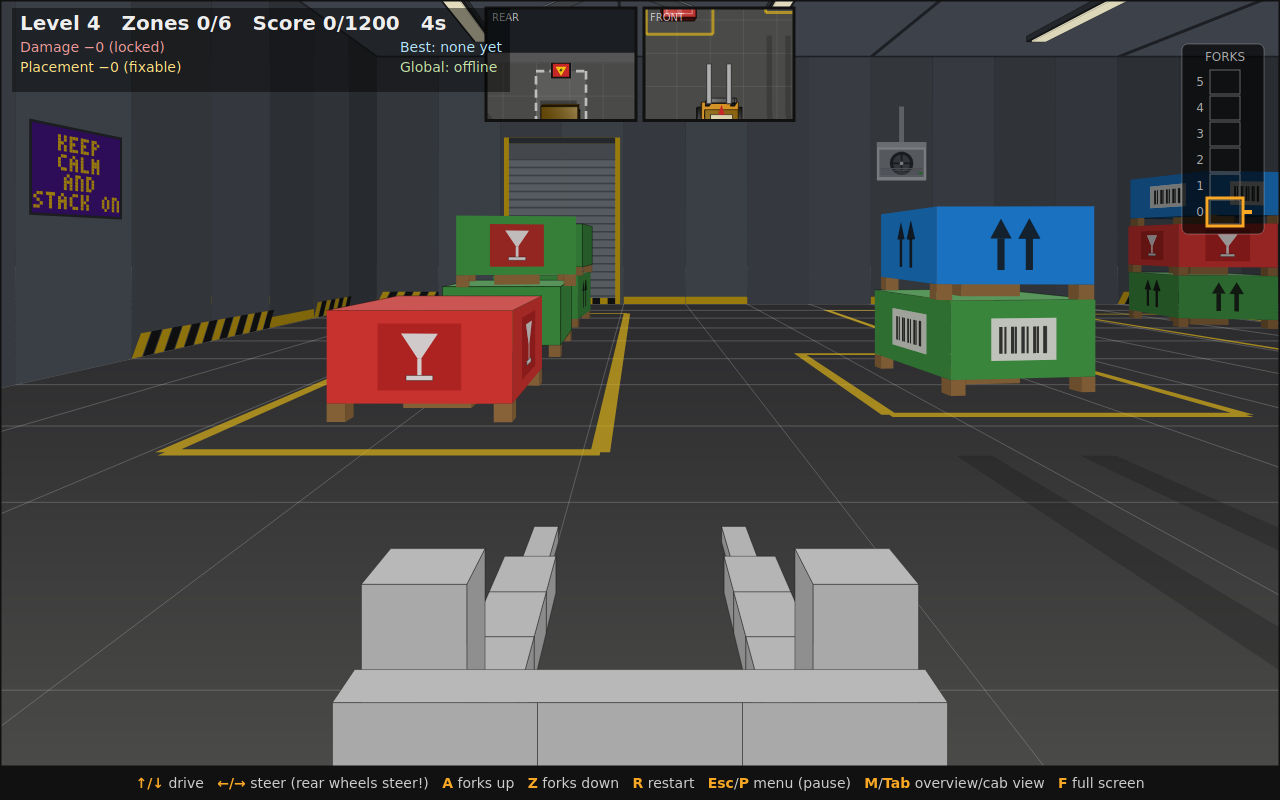
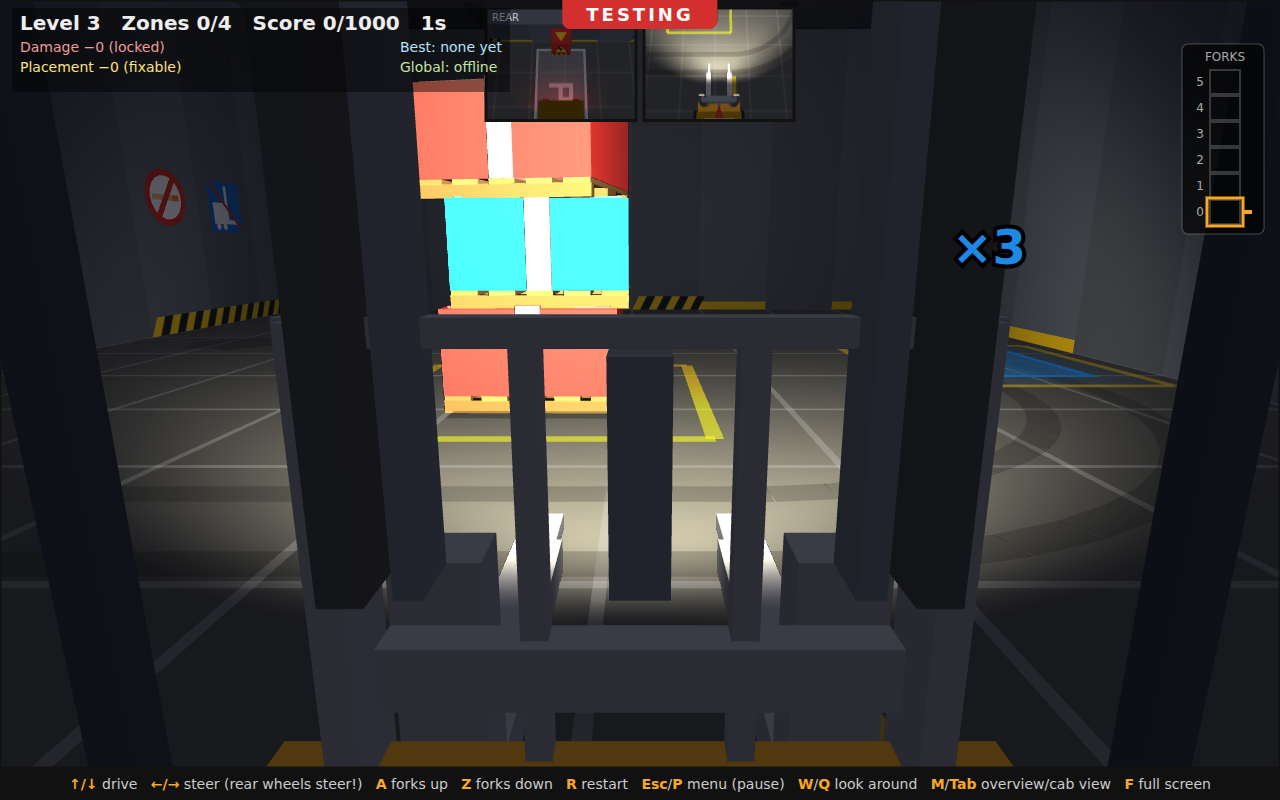
Presentation: update to 8 Nov, new dark-mode WebGL screenshots, Chromium screenshot guide

diff --git a/docs/presentation.html b/docs/presentation.html
@@ -26,12 +26,12 @@
   .row figure { flex: 1.2; margin: 0; }
   figure img { width: 100%; border-radius: 8px; border: 1px solid #2a313b; box-shadow: 0 6px 24px #0008; display: block; }
   figcaption { font-size: 1.1vw; color: #9aa4b2; margin-top: 1vh; }
-  .chart { display: flex; gap: 1.2vw; align-items: flex-end; justify-content: center; height: 52vh; margin-top: 1vh; }
-  .col { display: flex; flex-direction: column; align-items: center; justify-content: flex-end; width: 6.5vw; }
-  .col .n { font-size: 2.2vw; font-weight: bold; color: #ffc933; margin-bottom: .6vh; }
+  .chart { display: flex; gap: .5vw; align-items: flex-end; justify-content: center; height: 52vh; margin-top: 1vh; }
+  .col { display: flex; flex-direction: column; align-items: center; justify-content: flex-end; width: 4.2vw; }
+  .col .n { font-size: 1.6vw; font-weight: bold; color: #ffc933; margin-bottom: .6vh; }
   .col .stack { display: flex; flex-direction: column-reverse; width: 100%; border-bottom: 3px solid #6b7684; padding-bottom: 2px; }
   .col .stack i { display: block; width: 100%; margin-top: 1px; border-radius: 2px; box-sizing: border-box; border: 1px solid #0006; box-shadow: inset 0 -2px #0004, inset 0 2px #fff3; }
-  .col .d { font-size: 1.2vw; color: #9aa4b2; margin-top: .8vh; text-align: center; line-height: 1.3; }
+  .col .d { font-size: .9vw; color: #9aa4b2; margin-top: .8vh; text-align: center; line-height: 1.3; }
   .legend { display: flex; gap: 1.4vw; justify-content: center; font-size: 1.1vw; white-space: nowrap; color: #9aa4b2; margin-top: 1.5vh; }
   .legend i { display: inline-block; width: 1.2vw; height: 1.2vw; border-radius: 2px; vertical-align: middle; margin-right: .5vw; }
   .posters { display: grid; grid-template-columns: repeat(5, 1fr); gap: 2.2vw 2vw; align-items: center; justify-items: center; }
@@ -44,7 +44,7 @@
 <section class="slide">
   <h1>Pallet Polka</h1>
   <div class="sub">The development timeline of a top-down, keyboard-only forklift puzzle</div>
-  <div class="sub" style="margin-top:3vh">21 October – 2 November 2026 · 331 commits · vanilla JS + Canvas 2D · no build, no dependencies</div>
+  <div class="sub" style="margin-top:3vh">21 October – 8 November 2026 · 463 commits · vanilla JS + Canvas 2D · no build, no dependencies</div>
   <div class="sub" style="margin-top:6vh;font-size:1.4vw">← / → or Space to navigate</div>
 </section>
 
@@ -55,13 +55,13 @@
     <li>Rear-wheel-steering bicycle model: the tail swings out</li>
     <li>Deterministic seeded level generator (<code>mulberry32</code>)</li>
     <li>DOM-free game logic, so the tests run in plain Node</li>
-    <li>Static files on GitHub Pages (and an installable PWA); Firefox is the primary target</li>
+    <li>Static files on GitHub Pages (and an installable PWA); Firefox is the primary target, WebGL2 for the 3D views</li>
   </ul>
   <div class="stats">
-    <div class="stat"><b>~4.5k</b><span>lines of JS</span></div>
-    <div class="stat"><b>331</b><span>commits</span></div>
+    <div class="stat"><b>~6.3k</b><span>lines of JS</span></div>
+    <div class="stat"><b>463</b><span>commits</span></div>
     <div class="stat"><b>0</b><span>dependencies</span></div>
-    <div class="stat"><b>13</b><span>days (11 with commits)</span></div>
+    <div class="stat"><b>19</b><span>days (15 with commits)</span></div>
   </div>
 </section>
 
@@ -269,18 +269,88 @@
 <section class="slide">
   <div class="date">Day 15 · 4 Nov</div>
   <h2>Disco in the dark</h2>
-  <ul>
+  <div class="row"><ul>
     <li>Dark mode gets glitter balls and coloured light pools sweeping the floor, in the cabin view and (as lights only) the overview</li>
     <li>Balls are scattered randomly per level; the forklift carries its own light</li>
     <li>Menu options: disco lights on/off, and colour mode Follow OS / Light / Dark</li>
+  </ul>
+  <figure><img src="shots/14-cabin-disco.png" alt=""><figcaption>Disco lights in the 3D cabin view (HEAD, dark mode)</figcaption></figure></div>
+</section>
+
+<section class="slide">
+  <div class="date">Day 15 · 4 Nov</div>
+  <h2>Renamed: Pallet Polka</h2>
+  <ul>
+    <li>The game became <b>Pallet Polka</b>: new title on the splash and wall posters, polka MIDI as default music</li>
+    <li>Cover image (SVG source + PNG), a short description text and a new production address, palletpolka.gnutt.se</li>
+    <li>Level start and end screens show the local and global top 10</li>
+  </ul>
+</section>
+
+<section class="slide">
+  <div class="date">Day 18 · 7 Nov</div>
+  <h2>True 3D with WebGL2</h2>
+  <div class="row"><ul style="font-size:1.5vw">
+    <li>The overview, cabin view and look windows are now real 3D scenes (depth buffer, lighting, fog), no libraries; the 2D renderers remain as a fallback (<code>?gl=0</code>)</li>
+    <li>Dark mode headlights, brake/reverse lights, an idle tail glow, ceiling lights and disco spots as real point lights</li>
+    <li>Richer forklift model: carriage plates, lift chains, mast head and cylinder rod</li>
+    <li>Wall decals and zone labels painted into the 3D overview</li>
+    <li>Damaged boxes crumple: dented lids, corners and sides, scaled by damage</li>
+  </ul>
+  <figure><img src="shots/06-overview-latest.png" alt=""><figcaption>The 3D overview in dark mode (HEAD)</figcaption></figure></div>
+</section>
+
+<section class="slide">
+  <div class="date">Day 18 · 7 Nov</div>
+  <h2>A new menu, splash &amp; touch schemes</h2>
+  <div class="row"><ul>
+    <li>Pause menu redesigned: one option per row, submenus for sound, visuals, levels and state, primary actions on top</li>
+    <li>Short landscape phones get a two-column menu</li>
+    <li>Splash: Disco start button with a dancing man, a story blurb, random music; music and disco are off by default</li>
+    <li>Touch control schemes: classic buttons, rotated buttons, or a virtual joystick with fork buttons</li>
+  </ul>
+  <figure><img src="shots/13-menu-visuals.png" alt=""><figcaption>The Visuals &amp; controls submenu (HEAD, dark mode)</figcaption></figure></div>
+</section>
+
+<section class="slide">
+  <div class="date">Day 18 · 7 Nov</div>
+  <h2>Splash and joystick on the phone</h2>
+  <div style="display:flex;gap:2vw;align-items:center;justify-content:center">
+    <figure style="margin:0;flex:1.3"><img src="shots/17-splash-latest.png" alt=""><figcaption style="text-align:center">Splash screen, dark mode</figcaption></figure>
+    <figure style="margin:0;flex:1.6"><img src="shots/15-touch-joystick-landscape.png" alt=""><figcaption style="text-align:center">Joystick scheme, landscape</figcaption></figure>
+    <figure style="margin:0;flex:.55"><img src="shots/16-touch-joystick-portrait.png" alt=""><figcaption style="text-align:center">Portrait</figcaption></figure>
+  </div>
+</section>
+
+<section class="slide">
+  <div class="date">Day 19 · 8 Nov</div>
+  <h2>Chase camera &amp; look around</h2>
+  <div class="row"><ul style="font-size:1.6vw">
+    <li>Third-person chase camera for the overview (<b>C</b>, menu option or double tap): spring-mounted, orbits to the front when reversing and upwards when a wall hides the forklift</li>
+    <li>Drag to orbit the overview; <b>W</b>/<b>Q</b> or drag to look around in the cabin; camera zoom slider with reset</li>
+    <li>The overview cuts walls at a low height; the minimap shows the chase camera's floor footprint</li>
+    <li>D/R gear state drives reverse lights and beeper; a mirrored reversing-camera inset in the cabin</li>
+    <li>"Bare forks" option for an unobstructed cabin view</li>
+  </ul>
+  <figure><img src="shots/12-chase-camera.png" alt=""><figcaption>Chase camera with minimap footprint (HEAD, dark mode)</figcaption></figure></div>
+</section>
+
+<section class="slide">
+  <div class="date">Day 19 · 8 Nov</div>
+  <h2>Doorway flair &amp; tidier walls</h2>
+  <ul>
+    <li>Doorways get hazard chevrons on the wall ends, amber beacons on the jamb posts and a glowing header lamp</li>
+    <li>Roller doors and window signs on outer walls only; no decals inside doorways; toilet doors stay off interior walls</li>
+    <li>GL overview walls use the cabin-view look; dark-mode ceiling spots with capped strength</li>
+    <li>Look windows separated in the touch landscape cabin view; <code>?skip</code> URL parameter bypasses the splash</li>
   </ul>
 </section>
 
 <section class="slide">
   <h2>Where it ended up</h2>
   <div style="display:flex;gap:2vw;align-items:flex-start;justify-content:center">
-    <figure style="margin:0;flex:1"><img src="shots/06-overview-latest.png" alt=""><figcaption style="text-align:center">Overview: tutorial, fork gauge, yellow drop-off outlines</figcaption></figure>
-    <figure style="margin:0;flex:1"><img src="shots/07-cabin-latest.png" alt=""><figcaption style="text-align:center">Cabin view: look windows, ceiling lights, decals and zone labels</figcaption></figure>
+    <figure style="margin:0;flex:1"><img src="shots/06-overview-latest.png" alt=""><figcaption style="text-align:center">Overview in 3D: fork gauge, yellow drop-off outlines, doorway beacons</figcaption></figure>
+    <figure style="margin:0;flex:1"><img src="shots/07-cabin-latest.png" alt=""><figcaption style="text-align:center">Cabin view: reversing camera, look windows, decals and zone labels</figcaption></figure>
   </div>
 </section>
 
@@ -307,9 +377,10 @@
     <li><b>25 Oct</b> – reversing aids, music, saves, touch controls, PWA</li>
     <li><b>26 – 28 Oct</b> – landscape layout, animated splash, new soundtrack, cabin view rebuilt</li>
     <li><b>29 Oct – 2 Nov</b> – look windows, online scores, wonky stacks, 43 slogan posters</li>
+    <li><b>4 – 8 Nov</b> – Pallet Polka, disco, WebGL2 3D views, new menu, touch joystick, chase camera, doorway flair</li>
   </ul>
-  <div class="bar"><div class="on"></div><div></div><div class="on"></div><div class="on"></div><div class="on"></div><div class="on"></div><div class="on"></div><div class="on"></div><div class="on"></div><div></div><div class="on"></div><div class="on"></div><div class="on"></div></div>
-  <div class="sub" style="margin-top:1vh;font-size:1.3vw">21 Oct – 2 Nov, 13 days (no commits on the 22nd and 30th) · biggest day was day 1, then steady polish</div>
+  <div class="bar"><div class="on"></div><div></div><div class="on"></div><div class="on"></div><div class="on"></div><div class="on"></div><div class="on"></div><div class="on"></div><div class="on"></div><div></div><div class="on"></div><div class="on"></div><div class="on"></div><div class="on"></div><div class="on"></div><div></div><div></div><div class="on"></div><div class="on"></div></div>
+  <div class="sub" style="margin-top:1vh;font-size:1.3vw">21 Oct – 8 Nov, 19 days (no commits on 22 Oct, 30 Oct, 5 and 6 Nov) · biggest day was day 1, then steady polish</div>
 </section>
 
 <section class="slide">
@@ -319,7 +390,7 @@
 
 <div id="nav"></div>
 <script>
-  const perDay = {"21 Oct":[851,243,23,147,109,14,24,65,40,57,56,1,54,2,4,121,33,23,35,28,35,63,78,169,141,2,86,50,87,10,7,6,12,104,118,83,18,43,21,14,7,39,15,3,0,41,13,44,2,18,40,17,106,19,19,52,78,14,4,7,0,11,0,52,11,13,12,4,25,6,29,55,7,0,39,8,2,4,2],"22 Oct":[],"23 Oct":[100,46,48,35,30,29,53,0,86,0,67,176,2,0,105,35,84,21,16,29,11,22,399,55,25,35,88,17],"24 Oct":[50,0,19,0,51,0,16,0,250,21,129,39,29,75,2,0,19,25,31,2,10,74,44,90,36,23],"25 Oct":[20,26,107,6,14,20,202,62,41,42,156,194,96,28,0,132,7,4,18,36,3,96,41,4,58,187,28,28,0,3,59,8,126,4,50,10,7,0,43,70,72,6,6,9,152,8,2,57,4],"26 Oct":[33,0,48,6,21,100,1,0],"27 Oct":[8,8,0,11,0,20,0,2,2,14,0,43,2,2,6,6,4,27,33,11,25,15,41,9],"28 Oct":[9,0,12,0,10,8,23,112,8,25,1,62,16,53,18,17,31,20,2,11,11,147,0,10,4,2,0,1,1,1,1161],"29 Oct":[9,9,10,2,46,37,2,6,27,24,127,18,24,28,1,1,155,0,2,86,35,2,0,13,15,4,72,10,0,3],"30 Oct":[],"31 Oct":[32,0,0,19,3,5],"1 Nov":[83,77,61,12,0,26,0,0,10,0,5,0,6,2,0,0,18,72,0,7,7,0,14,24,0,91,2,10,2,4,20,0,4,0],"2 Nov":[15,0,40,0,64,18,0,30,0,0,12,0,58,10,25,66]};
+  const perDay = {"21 Oct":[851,243,23,147,109,14,24,65,40,57,56,1,54,2,4,121,33,23,35,28,35,63,78,169,141,2,86,50,87,10,7,6,12,104,118,83,18,43,21,14,7,39,15,3,0,41,13,44,2,18,40,17,106,19,19,52,78,14,4,7,0,11,0,52,11,13,12,4,25,6,29,55,7,0,39,8,2,4,2],"22 Oct":[],"23 Oct":[100,46,48,35,30,29,53,0,86,0,67,176,2,0,105,35,84,21,16,29,11,22,399,55,25,35,88,17],"24 Oct":[50,0,19,0,51,0,16,0,250,21,129,39,29,75,2,0,19,25,31,2,10,74,44,90,36,23],"25 Oct":[20,26,107,6,14,20,202,62,41,42,156,194,96,28,0,132,7,4,18,36,3,96,41,4,58,187,28,28,0,3,59,8,126,4,50,10,7,0,43,70,72,6,6,9,152,8,2,57,4],"26 Oct":[33,0,48,6,21,100,1,0],"27 Oct":[8,8,0,11,0,20,0,2,2,14,0,43,2,2,6,6,4,27,33,11,25,15,41,9],"28 Oct":[9,0,12,0,10,8,23,112,8,25,1,62,16,53,18,17,31,20,2,11,11,147,0,10,4,2,0,1,1,1,1161],"29 Oct":[9,9,10,2,46,37,2,6,27,24,127,18,24,28,1,1,155,0,2,86,35,2,0,13,15,4,72,10,0,3],"30 Oct":[],"31 Oct":[32,0,0,19,3,5],"1 Nov":[83,77,61,12,0,26,0,0,10,0,5,0,6,2,0,0,18,72,0,7,7,0,14,24,0,91,2,10,2,4,20,0,4,0],"2 Nov":[15,0,40,0,64,18,0,30,0,0,12,0,58,10,25,66,79,7,0,0,0,14],"3 Nov":[8],"4 Nov":[22,12,0,46,0,3,2,0,2,4,0,140,36,24,43,17,2,34,2,10,0,0,115,0],"5 Nov":[],"6 Nov":[],"7 Nov":[171,54,0,96,2,0,0,3,0,69,104,42,12,6,0,65,3,0,0,966,21,140,0,0,82,0,59,0,98,20,2,0,5,0,8,0,8,2],"8 Nov":[40,63,10,6,8,0,6,0,51,7,4,14,6,18,23,15,27,0,17,0,15,0,8,0,4,7,81,50,11,10,48,36,27,25,0,37,0,8,0,76,0,9,23,6,16,21,0,8,0,107,73,24,0,68,0,37,9,33,0,7,0,8,0]};
   const chart = document.getElementById('chart');
   for (const [day, commits] of Object.entries(perDay)) {
     const total = commits.reduce((a, b) => a + b, 0);

diff --git a/docs/PRESENTATION_GUIDE.md b/docs/PRESENTATION_GUIDE.md
@@ -11,10 +11,11 @@
 ## Regenerating / updating
 1. Read the history: `git log --reverse --date=short --pretty='%ad %h %s'`. Group commits by day and theme; for an update, only add what is new since the last slide (check the last date/commit mentioned).
 2. Add or edit slides: 4–6 short bullets each, user-visible features first. Add a new slide per day or major theme; update the "at a glance" slide and the title-slide stats.
-3. Refresh screenshots only when the look changed noticeably (new view, major visual overhaul). Name them `NN-short-name.png`, caption with the commit hash. Replace the "latest" shots (`06-overview-latest`, `07-cabin-latest`) from HEAD.
+3. Refresh screenshots only when the look changed noticeably (new view, major visual overhaul). Name them `NN-short-name.png`, caption with the commit hash. Replace the "latest" shots (`06-overview-latest`, `07-cabin-latest`, `17-splash-latest`) from HEAD, taken in **dark mode with disco lights off** (disco only for the disco slide, `14-cabin-disco`). Other current shots: `12-chase-camera`, `13-menu-visuals`, `15/16-touch-joystick-*` (Playwright `isMobile`/`hasTouch`, 844×390 and 390×844; drive with keyboard events to dismiss the level-start overlay).
 4. Check the result renders (see below) and commit on its own branch.
 
 ## Taking screenshots of old commits (Firefox headless)
+Headless Firefox only renders the 2D fallback; fine for old (pre-WebGL) commits, use the Chromium recipe below for HEAD.
 Firefox is the only browser installed; `firefox --headless --screenshot` fires at the load event, so the game must be driven *before* load finishes.
 - Check out each commit in a temporary worktree: `git worktree add --detach /tmp/wt/<hash> <hash>` (remove with `git worktree remove --force` afterwards).
 - Use a fresh profile each run, otherwise it reports "already running": `firefox --headless --no-remote --profile /tmp/ffp --screenshot out.png --window-size=1280,800 URL`.
@@ -22,6 +23,15 @@ Firefox is the only browser installed; `firefox --headless --screenshot` fires a
 - Typical sequence: tap `Space` (dismiss splash), hold `ArrowUp` ~1.5 s, hold `ArrowRight` ~0.7 s, release. Swap to the cabin view with `KeyM` (older commits: `KeyF`; `Tab` does not work with synthetic events because it requires `target === body`). Set N a bit above the total sequence time.
 - Splash screen/menu keys and the tutorial popup change between commits; look at the screenshot and adjust. Old commits with no scoring HUD or splash need no `Space`.
 - Kill helper servers (by PID) and delete `/tmp` files when done.
+
+## Taking screenshots of current commits with WebGL (Chromium via Playwright)
+Headless Firefox (snap) has **no WebGL** (`getContext('webgl2')` is null, even with `webgl.force-enabled`), so it only shows the 2D fallback renderer. For anything since the WebGL2 renderer (overview, chase camera, cabin view, dark-mode lights, doorway beacons) use Chromium with software GL (SwiftShader). Everything lives in `/tmp`, nothing goes in the repo.
+1. Install (no root, no build step in the repo): `mkdir /tmp/shotrig && cd /tmp/shotrig && npm init -y && npm i playwright && npx playwright install chromium`.
+2. If Chromium fails with `libasound.so.2: cannot open shared object file`, fetch it without sudo: `mkdir libs && cd libs && apt-get download libasound2t64 && dpkg -x *.deb .`, then `export LD_LIBRARY_PATH=/tmp/shotrig/libs/usr/lib/x86_64-linux-gnu` before running node.
+3. Serve the repo root (or a `git worktree` of another commit) statically: `python3 -m http.server 8765` (run from that directory; kill it by PID afterwards).
+4. Script (`pw.mjs`, ES module): launch with `args: ['--use-gl=angle','--use-angle=swiftshader','--enable-unsafe-swiftshader','--ignore-gpu-blocklist']`, new context with `viewport: {width:1280,height:800}`, `colorScheme: 'dark'`, and `ctx.addInitScript` that sets the `localStorage` keys below; `page.goto('http://127.0.0.1:8765/index.html?skip')` (`?skip` bypasses splash and tutorial); wait ~1.5 s; drive with `page.keyboard.down/up/press` (`ArrowUp`, `ArrowRight`, `KeyA`, `KeyM`, `KeyC`, `Escape`, …) and `page.waitForTimeout`; finally `page.screenshot({path})`. Real keyboard events work, so `Tab` and the rest of the keys need no tricks.
+5. Useful `localStorage` keys: `forklift-theme` = `dark`/`light`, `forklift-disco` = `1` (disco lights, dark mode only), `forklift-level` = `N` (level 3+ has doorways), `forklift-cab-view` = `1` (start in cabin view), `forklift-chase-cam` = `1` (chase camera), `forklift-bare-forks` = `1`, `forklift-tutorial-done` = `1`. Other settings live in the menu (`Escape`); URL parameters are listed in `README.md`.
+6. Prefer **dark mode** for new screenshots. The `TESTING` banner shows on localhost; that is fine. Look at each screenshot and adjust the key sequence/timing (SwiftShader is slow, so keep the simulated time short and add a small wait before the shot).
 
 ## Keeping it up to date
 After a merge to `main` that adds a notable feature or visual change, extend the presentation (new bullets/slide, stats, possibly a new screenshot) in the same merge flow, following the repo branch rules. Skip it for small fixes and refactors.
